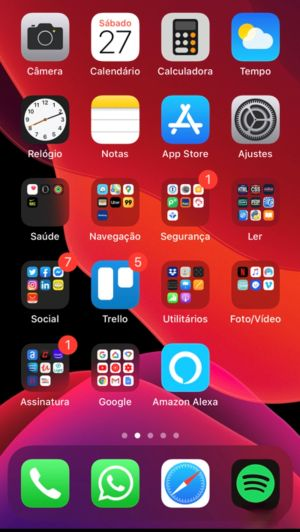
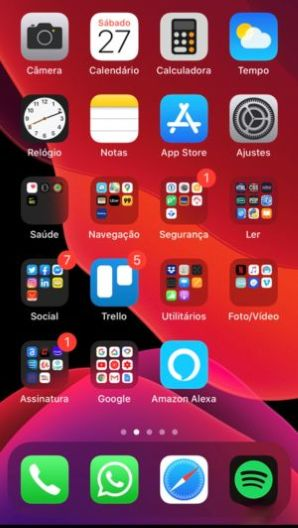
Criei a tela home

diff --git a/home.html b/home.html
@@ -13,7 +13,8 @@
         body{
             width: 100vw;
             height: 100vh;
-            background: black url('imagens/tela-home.jpg') no-repeat top center; 
+            background: black url('imagens/tela-home1.jpg') no-repeat top center;
+            background-size: cover;
         }
     </style>
 </head>

diff --git a/estilos/style.css b/estilos/style.css
@@ -32,3 +32,11 @@ section#telefone{
     width: 400px;
     background:  url('../imagens/frame-iphone.png') no-repeat;
 }
+
+iframe#tela{
+    position: relative;
+    top: 81px;
+    left: 75px;
+    width: 264px;
+    height: 446px;
+}

diff --git a/index.html b/index.html
@@ -10,7 +10,7 @@
 <body>
     <main>
         <section id="telefone">
-
+            <iframe src="home.html" name="tela" id="tela" frameborder="0"></iframe>
         </section>
         <section id="redes-sociais">
 
